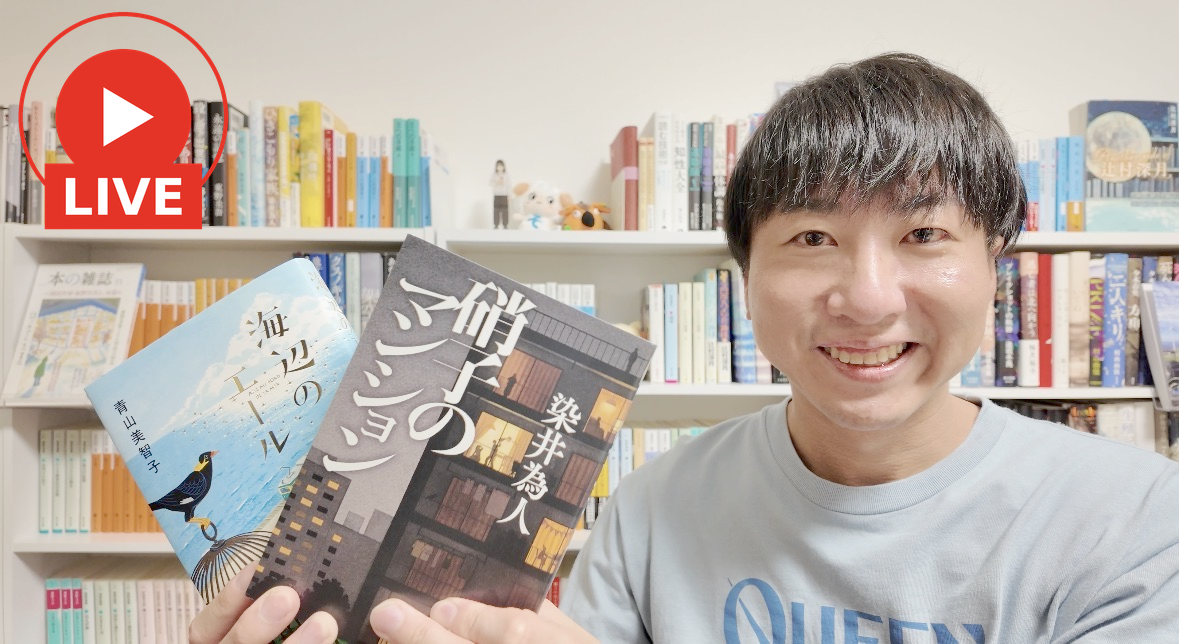
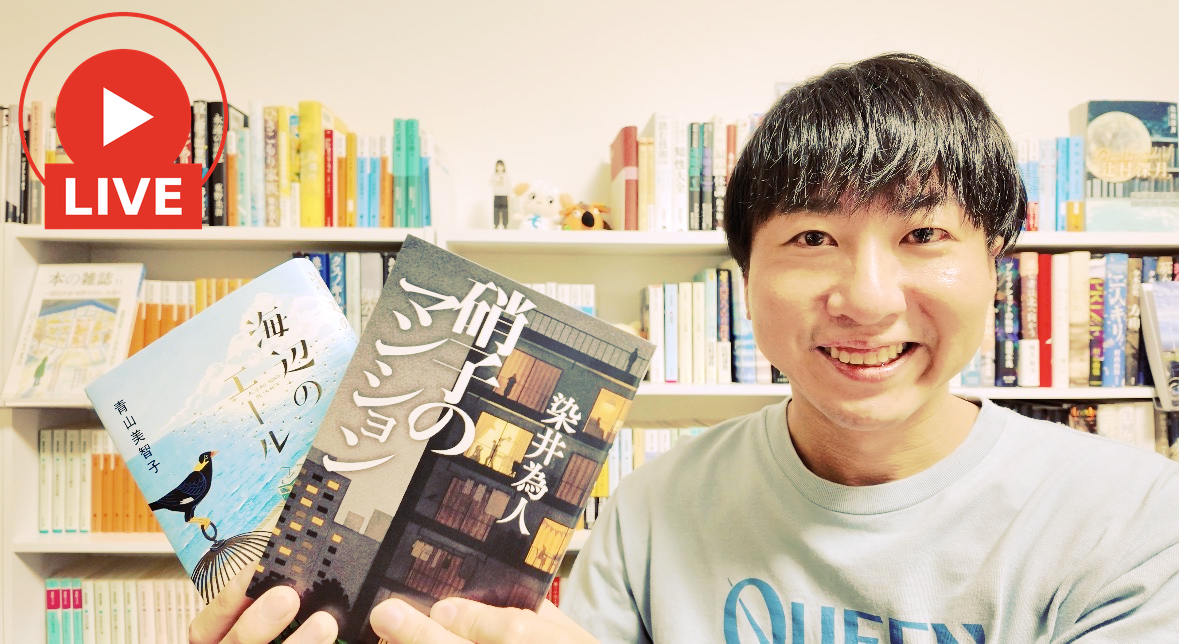
ライブ配信サムネイル：1枚目の写真と同じ明るさ・色味に合わせる
Claude-Session: https://claude.ai/code/session_01PgBssd9mgKDSdASv1kBNHd

diff --git a/thumbnail/live_mark.py b/thumbnail/live_mark.py
@@ -6,6 +6,7 @@
 フォルダに次を置く。
     photo.jpg（png/webp も可）: 元の写真
     config.json : {"brightness": 185}   # 仕上がりの平均の明るさ（0〜255）。省略すると明るさはそのまま
+                  {"reference": "reference.jpg"}  # 見本写真と同じ明るさ・色味にする（brightness より優先）
 出力: フォルダ内の thumbnail.png（作り直すたびに上書きする）
 """
 import json
@@ -34,6 +35,19 @@ def match_brightness(img: Image.Image, target: float) -> Image.Image:
     return Image.fromarray((a ** g * 255).round().astype(np.uint8))
 
 
+def match_colors(img: Image.Image, ref: Image.Image) -> Image.Image:
+    """色ごとの明るさの分布を見本写真に合わせる（明るさと色味を両方そろえる）"""
+    a = np.asarray(img)
+    r = np.asarray(ref.convert("RGB"))
+    out = np.empty_like(a)
+    for c in range(3):
+        src_cdf = np.cumsum(np.bincount(a[..., c].ravel(), minlength=256)) / a[..., c].size
+        ref_cdf = np.cumsum(np.bincount(r[..., c].ravel(), minlength=256)) / r[..., c].size
+        lut = np.interp(src_cdf, ref_cdf, np.arange(256))
+        out[..., c] = lut[a[..., c]].round().astype(np.uint8)
+    return Image.fromarray(out)
+
+
 def draw_live_mark(img: Image.Image) -> Image.Image:
     """見本サムネ（横幅 1080 px 基準）と同じ位置・大きさで LIVE マークを描く"""
     s = img.width / 1080
@@ -60,7 +74,9 @@ def build(folder: Path) -> Path:
     config = json.loads((folder / "config.json").read_text(encoding="utf-8"))
     photo = next(p for p in sorted(folder.glob("photo.*")) if p.suffix.lower() in {".jpg", ".jpeg", ".png", ".webp"})
     img = Image.open(photo).convert("RGB")
-    if "brightness" in config:
+    if "reference" in config:
+        img = match_colors(img, Image.open(folder / config["reference"]))
+    elif "brightness" in config:
         img = match_brightness(img, config["brightness"])
     out = folder / "thumbnail.png"
     draw_live_mark(img).save(out, optimize=True)

diff --git a/CLAUDE.md b/CLAUDE.md
@@ -35,7 +35,7 @@ vlog のサムネイルを頼まれたら、毎回この方法で作る。
 - 見本: `thumbnail/share-lounge-yodoyabashi/`（2 行）
 
 ## ライブ配信のサムネイル
-- 写真 1 枚の左上に LIVE マーク（赤い輪＋再生ボタン＋「LIVE」）を入れ、明るさを見本（平均 177 くらいが自然）に合わせる
-- `thumbnail/<フォルダ名>/` に `photo.jpg` と `config.json`（`{"brightness": 177}`）を置く
+- 写真 1 枚の左上に LIVE マーク（赤い輪＋再生ボタン＋「LIVE」）を入れ、明るさと色味を見本の写真に合わせる
+- `thumbnail/<フォルダ名>/` に `photo.jpg`、見本写真 `reference.jpg`（前回のライブ配信サムネの写真部分）、`config.json`（`{"reference": "reference.jpg"}`）を置く
 - 実行: `python3 thumbnail/live_mark.py thumbnail/<フォルダ名>` → `thumbnail.png`（上書き）
 - 見本: `thumbnail/live-2026-10/`
